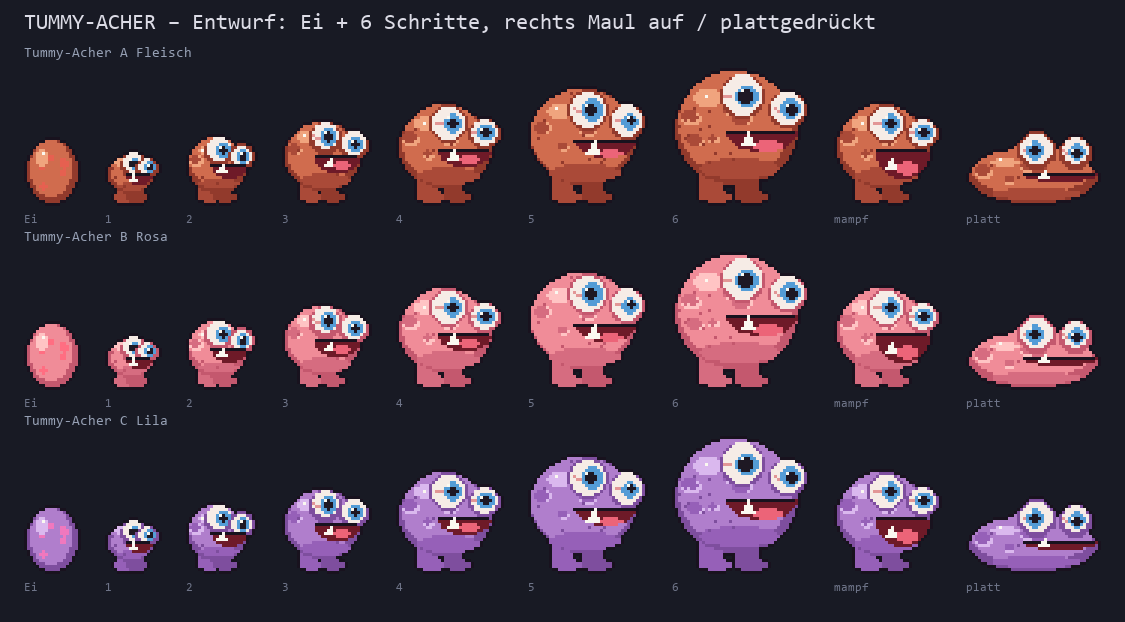
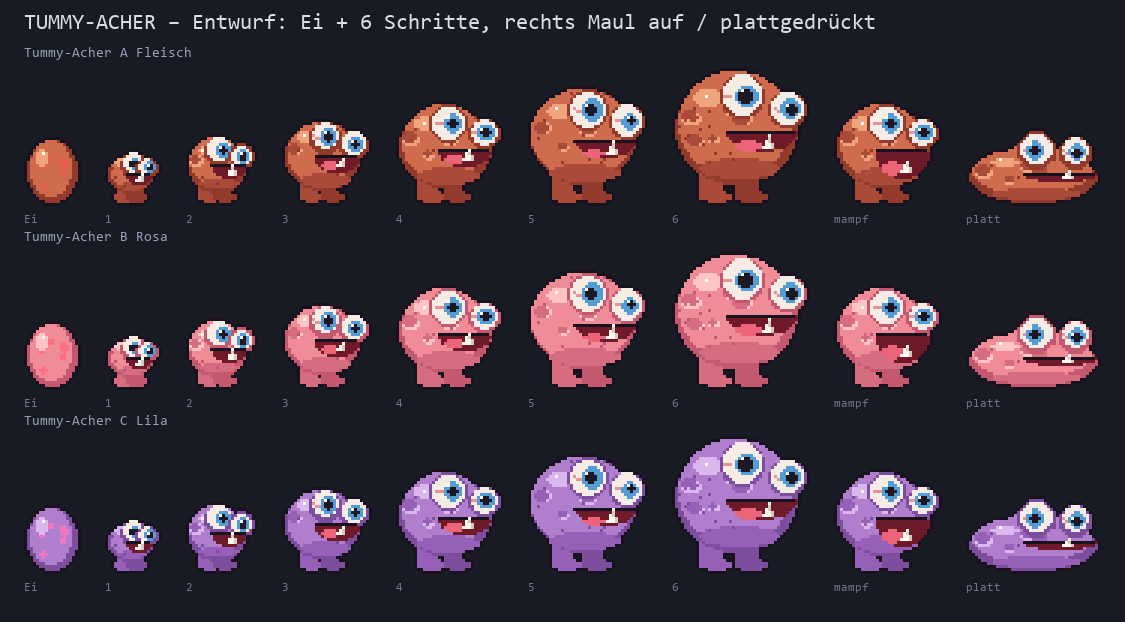
Doku: Mongo jagt mit gerader Rückenlinie, Tummy-Acher-Zahn wächst aus dem Unterkiefer

diff --git a/docs/assets/critter-pet/dcc_entwurf.py b/docs/assets/critter-pet/dcc_entwurf.py
@@ -128,15 +128,18 @@ def mongo(stufe, p, pose="stehen", phase=0.0):
     # Mark 15.11.: Schwanz dünner und länger wie beim echten Raptor — lang, steif,
     # fast waagrecht, zur Spitze leicht ansteigend.
     sl = lerp(4, 60, t)
-    sa = math.radians(lerp(-140, -178, t))
-    s1 = (hip[0] + math.cos(sa) * sl * 0.5, hip[1] + math.sin(sa) * sl * 0.5 + lerp(0, 0.5, t))
-    s2 = (hip[0] + math.cos(sa) * sl, hip[1] + math.sin(sa) * sl - lerp(0, 4, t))
+    # Mark 15.11.: auf der Jagd keine Kante vor dem Schwanz — Rücken und Schwanz
+    # eine gerade Linie, also Schwanz genau in Verlängerung des Rumpfs.
+    sa = math.radians(lerp(lerp(-140, -178, t), math.degrees(w) + 180 - 360, gb))
+    s1 = (hip[0] + math.cos(sa) * sl * 0.5, hip[1] + math.sin(sa) * sl * 0.5 + lerp(0, 0.5, t) * (1 - gb))
+    s2 = (hip[0] + math.cos(sa) * sl, hip[1] + math.sin(sa) * sl - lerp(0, 4, t) * (1 - gb))
     schwanz = kette([s2, s1, hip])
     rumpf = kette([hip, sch])
     halsk = kette([sch, mitte, hals])
 
     def r_schwanz(s):
-        return lerp(lerp(2.2, 0.6, t), rk * lerp(0.85, 0.62, t), s ** lerp(0.8, 2.2, t))
+        # Ansatz so dick wie der Rumpf an der Hüfte, sonst steht dort ein Höcker
+        return lerp(lerp(2.2, 0.6, t), rk * lerp(0.85, 0.97, t), s ** lerp(0.8, 2.2, t))
 
     def r_rumpf(s):
         return lerp(rk, rk * lerp(0.95, 0.78, t), s)
@@ -386,11 +389,15 @@ def tummy(stufe, p, pose="stehen"):
     d.pieslice([round(mx0), round(my - mh), round(mx1), round(my + mh)], 0, 180, fill=MUND)
     d.line([(mx0, my), (mx1, my)], fill=K)
     if pose == "maul" or (not platt and t > 0.3):
-        ell(d, (mx0 + mx1) / 2 + rx * 0.1, my + mh * 0.68, (mx1 - mx0) * 0.2, max(0.6, mh * 0.25), ZUNGE)
-    zh = lerp(1.6, 4.2, t) * (0.7 if platt else 1)
-    zx = mx0 + (mx1 - mx0) * 0.3
-    zb = lerp(1.0, 2.0, t)
-    d.polygon([(zx - zb, my + mh * 0.75), (zx + zb, my + mh * 0.75), (zx + zb * 0.4, my + mh * 0.75 - zh)], fill=W)
+        ell(d, mx0 + (mx1 - mx0) * 0.3, my + mh * 0.68, (mx1 - mx0) * 0.17, max(0.6, mh * 0.25), ZUNGE)  # Zunge links, Zahn rechts frei
+    # Mark 15.11.: Zahn weiter zur Mitte/anderen Seite und tiefer im Mund,
+    # wächst aus dem Unterkiefer (Zahnfleisch drüber), nicht aufgeklebt.
+    zh = lerp(1.8, 4.4, t) * (0.7 if platt else 1)
+    zx = mx0 + (mx1 - mx0) * 0.62
+    zb = lerp(0.9, 1.7, t)
+    fuss = my + mh * 0.97 - 0.5  # sitzt auf der Kieferkante
+    d.polygon([(zx - zb, fuss), (zx + zb, fuss), (zx + zb * 0.3, fuss - zh)], fill=W)
+    d.line([(zx + zb * 0.3, fuss - zh + 1), (zx + zb, fuss)], fill=(214, 200, 188, 255))  # Schattenseite
     return outline(img)
 
 

diff --git a/docs/wiki/entities/critter-pet.md b/docs/wiki/entities/critter-pet.md
@@ -467,6 +467,8 @@ Mark: „Ich hätte gerne 2 Pets aus Dungeon Crawler Carl, und zwar einen Mongol
   - Nachschärfung 15.11. (Mark mit Velociraptor-Referenzbild): „Schwanz dünner und länger, ganz ausgewachsen ein wenig mehr wie auf dem Bild“. Umgesetzt: Schwanz fast doppelt so lang, dünn zulaufend, waagrecht steif mit Federsaum statt Fächer; Rücken dunkel, Bauch nur noch schmaler Streifen; längere Schnauze und Beine; gefaltete Flügelfedern mit Krallen; Kamm liegt beim Großen nach hinten. Küken-Stufen fast unverändert.
   - Nachschärfung 15.11.: Mark „Hals noch länger und dünner, dann passt es“. Hals beim Großen gut 50 % länger und deutlich schmaler (`hl` 13 → 20, Halsdicke ~0,5 statt 0,62). Damit ist die Mongo-Figur für Mark abgenommen.
   - Nachschärfung 15.11.: „Wenn er läuft, etwas gebückter, damit er gefährlicher aussieht.“ Pose `laufen` in `dcc_entwurf.py`: Rumpf nach vorn gekippt, Hüfte tiefer (Knie gebeugt), S-Hals mit vorgestrecktem tiefem Kopf, Schrittweite wächst mit. Gebückt skaliert mit dem Wachstum — das Küken watschelt aufrecht (Annahme Neko). Stehen unverändert. Tafel `mongo_laufen_entwurf.png`.
+  - Nachschärfung 15.11.: Kante/Höcker am Rücken vor dem Schwanz auf der Jagd „schaut falsch aus“. Schwanz läuft beim Laufen genau in Verlängerung des Rumpfs (gerade Rückenlinie), Schwanzansatz so dick wie die Hüfte.
+  - Nachschärfung 15.11. Tummy-Acher („fast perfekt“): Zahn wirkte aufgeklebt. Jetzt rechts der Mitte, wächst von der Unterkieferkante hoch, mit Schattenseite; Zunge nach links verschoben.
   - Nachschärfung 15.11. (Mark mit Buchcover): Tummy-Acher „mehr wie ein seltsamer Fleischklops … mit Zahn und Dellen“, süß ja, aber seltsam. Umgesetzt: klumpiger Körper aus Beulen, Dellen und Sprenkel, ungleich große Glubschaugen mit blauer Iris über dem Umriss, breites Grinsen mit einem Zahn, keine Arme mehr, Haarbüschel weg. Farben jetzt A Fleisch (wie Cover), B Rosa, C Lila (Pfirsich entfällt, war fast wie Fleisch).
 
 ## Offene Achsen (Stand vor 11.11.-Antwort)
